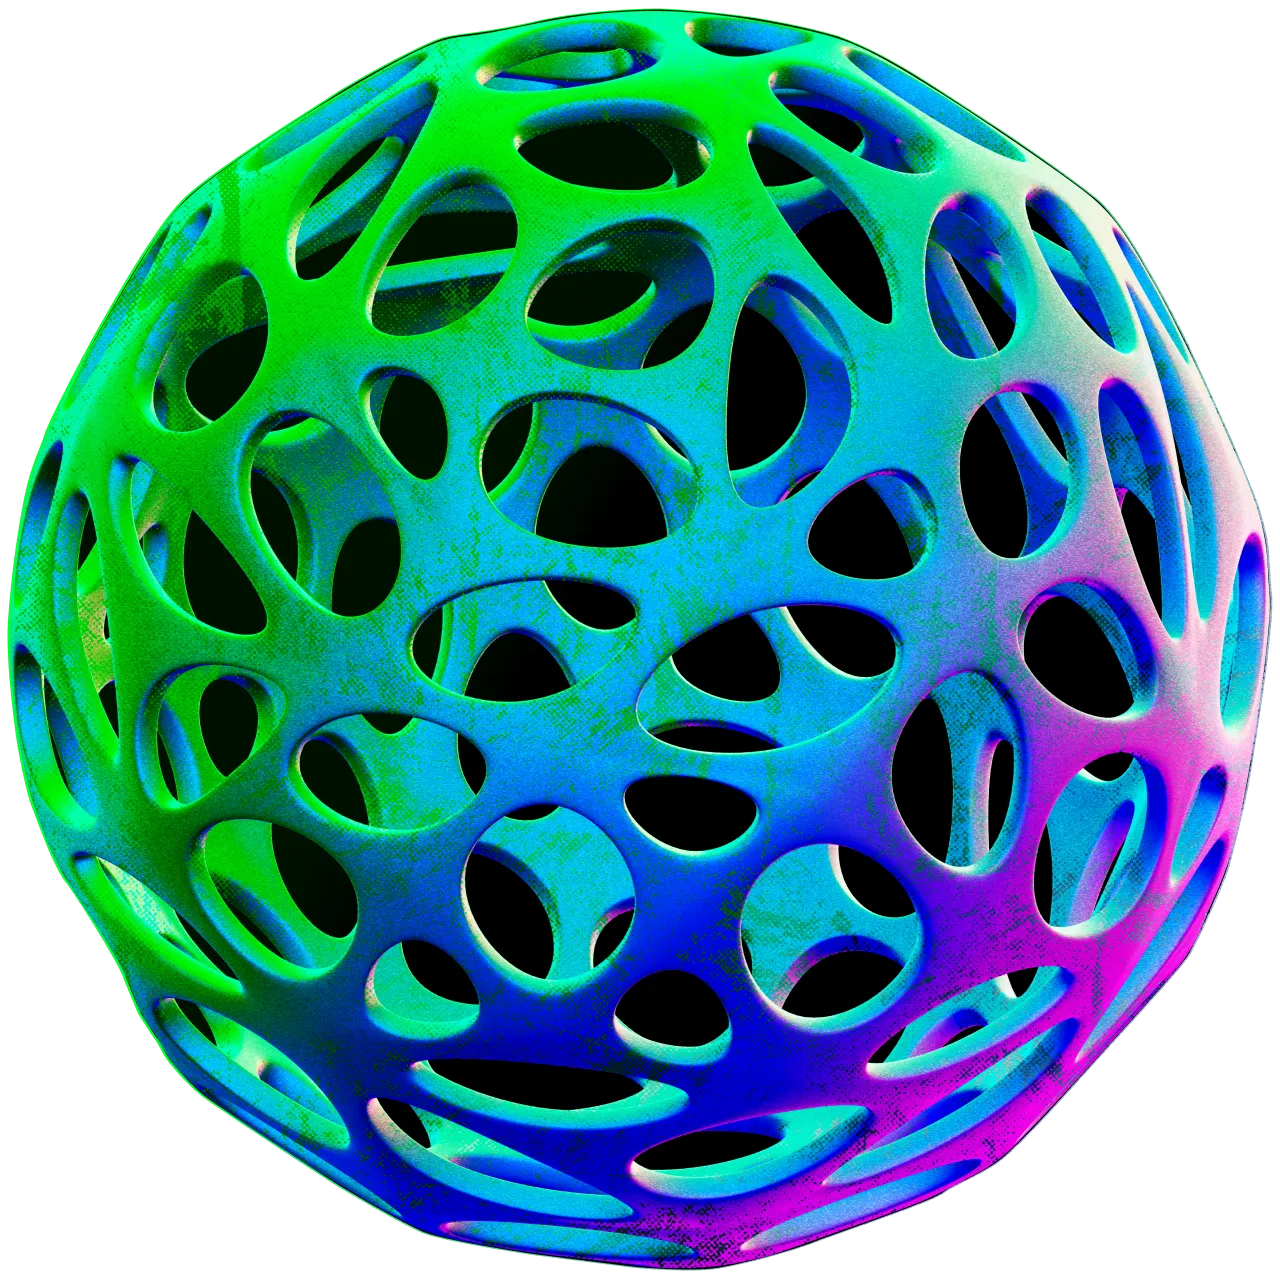
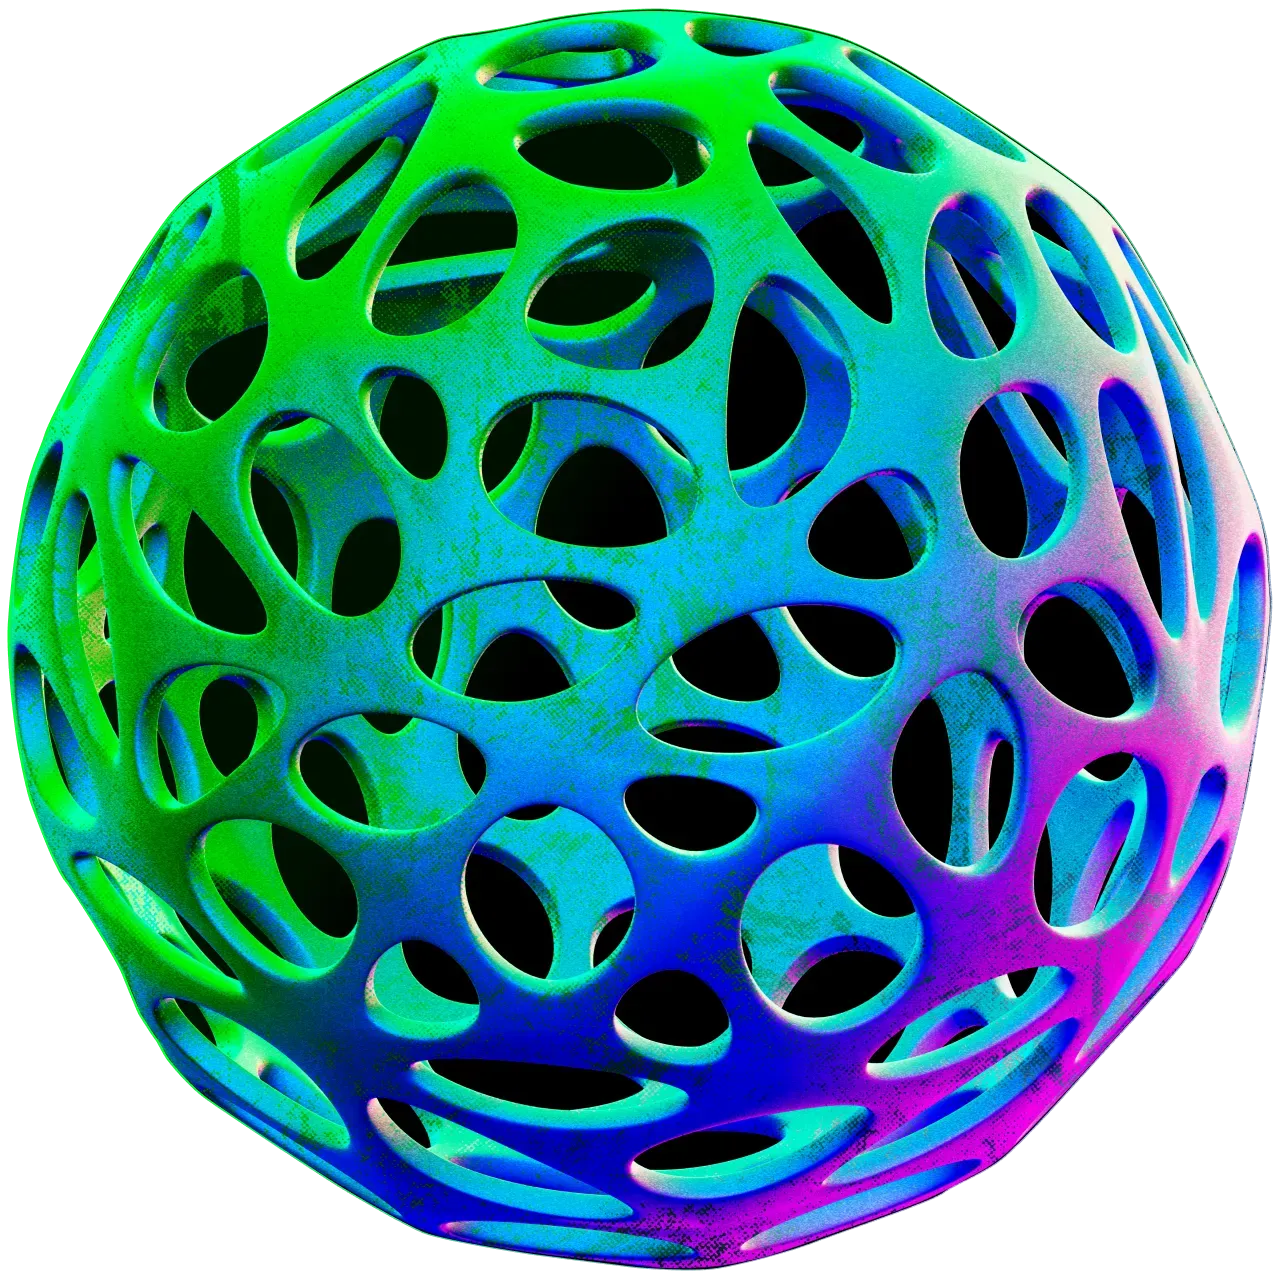
feat: optimize yt video and images as webp

Changed region(s): [[0.5312, 0.4688, 0.5625, 0.5], [0.4375, 0.5312, 0.4688, 0.5625], [0.3438, 0.4375, 0.375, 0.4688]]

diff --git a/index.html b/index.html
@@ -25,7 +25,7 @@
     @media screen and (min-width:1400px){.container{max-width:1200px}}
     @media screen and (min-width:1600px){.container{max-width:1400px}}
     header{width:100%;position:fixed;z-index:9999;transition:top .3s linear}
-    header.fixed{top:0;background:transparent}
+    header.fixed{top:0;background:transparent}.modal{display:none}.modal.show{display:block}
     .section{margin-bottom:4rem}
     .section__container{width:100%;margin-right:auto;margin-left:auto;display:flex;justify-content:space-between;align-items:center;flex-direction:column}
     .section__container--column{flex-direction:column}
@@ -69,6 +69,7 @@
   <link rel="stylesheet" href="https://unpkg.com/@fortawesome/fontawesome-free@5.15.4/css/all.min.css" media="print" onload="this.media='all'">
   <noscript><link rel="stylesheet" href="https://unpkg.com/@fortawesome/fontawesome-free@5.15.4/css/all.min.css"></noscript>
   <link rel="stylesheet" href="css/flipster.min.css" media="print" onload="this.media='all'">
+  <link rel="stylesheet" href="https://cdn.jsdelivr.net/npm/lite-youtube-embed@0.3.3/src/lite-yt-embed.css">
   <noscript><link rel="stylesheet" href="css/flipster.min.css"></noscript>
   <link rel="preload" href="fonts/Circular Std Book.ttf" as="font" type="font/ttf" crossorigin>
   <link rel="preload" href="fonts/Circular Std Medium.ttf" as="font" type="font/ttf" crossorigin>
@@ -154,7 +155,7 @@
                       </button>
                   </div>
                   <div class="modal__body">
-                    <iframe width="100%" height="315" src="https://www.youtube.com/embed/UqAequz4mgk" title="YouTube video player" frameborder="0" allow="accelerometer; autoplay; clipboard-write; encrypted-media; gyroscope; picture-in-picture; web-share" allowfullscreen></iframe>
+                    <lite-youtube videoid="UqAequz4mgk" playlabel="Play video: Network of Momentum overview" style="width:100%;height:315px;"></lite-youtube>
                   </div>
                   <div class="modal__footer"></div>
               </div>
@@ -517,12 +518,12 @@
                 </div>
               </div>
               <div class="join-content__right">
-                <img src="./img/network.png" alt="network" width="410" />
+                <img src="./img/network.webp" alt="network" width="410" />
               </div>
             </div>
             <div class="join-content">
               <div class="join-content__left">
-                <img src="./img/funding.png" alt="funding" width="550" />
+                <img src="./img/funding.webp" alt="funding" width="550" />
               </div>
               <div class="join-content__right join-content--full  join-content__right--reverse">
                 <h3 class="join-content__title">Get funding</h3>
@@ -727,7 +728,7 @@
                     </div>
                     <h3>Create your wallet</h3>
                     <p class="mb-0">Syrius is a state-of-the-art non-custodial wallet for the Network of Momentum. Store and manage your ZNN, QSR and ZTS tokens in a cross-platform, user-friendly and safe digital wallet</p>
-                    <img src="./img/wallet-bg.png" alt="wallet bg" />
+                    <img src="./img/wallet-bg.webp" alt="wallet bg" />
                   </div>
                   <a href="#downloads">Download Syrius wallet <i class="fas fa-arrow-right"></i></a>
                 </div>
@@ -791,7 +792,7 @@
                     </div>
                     <h3>Explore Code</h3>
                     <p class="mb-0">The vision, distilled. Explore the code powering the Network of Momentum. Every contribution matters</p>
-                    <img src="./img/code-bg.png" alt="code bg" />
+                    <img src="./img/code-bg.webp" alt="code bg" />
                   </div>
                   <a target="_blank" href="https://github.com/zenon-network">Discover Github <i class="fas fa-arrow-right"></i></a>
                 </div>
@@ -889,31 +890,31 @@
                 <div class="tab-flipster">
                   <ul>
                     <li data-flip-title="Syrius extension">
-                      <img src="./img/z.extension.png" alt="page 1" />
+                      <img src="./img/z.extension.webp" alt="page 1" />
                     </li>
                     <li data-flip-title="Syrius Mobile">
-                      <img src="./img/z.mobile_app.png"  alt="page 2" />
+                      <img src="./img/z.mobile_app.webp"  alt="page 2" />
                     </li>
                     <li data-flip-title="Bridge">
-                      <img src="./img/z.bridge.png"  alt="page 3" />
+                      <img src="./img/z.bridge.webp"  alt="page 3" />
                     </li>
                     <li data-flip-title="zenon.org">
-                      <img src="./img/z.org.png"  alt="page 4" />
+                      <img src="./img/z.org.webp"  alt="page 4" />
                     </li>
                     <li data-flip-title="zenon.tools">
-                      <img src="./img/z.tools.png"  alt="page 5" />
+                      <img src="./img/z.tools.webp"  alt="page 5" />
                     </li>
                     <li data-flip-title="Zenon Forum">
-                      <img src="./img/z.forum.png"  alt="page 6" />
+                      <img src="./img/z.forum.webp"  alt="page 6" />
                     </li>
                     <li data-flip-title="Zenon.info">
-                      <img src="./img/z.info.png"  alt="page 7" />
+                      <img src="./img/z.info.webp"  alt="page 7" />
                     </li>
                     <li data-flip-title="Zenonhub.io">
-                      <img src="./img/z.hub.png"  alt="page 8" />
+                      <img src="./img/z.hub.webp"  alt="page 8" />
                     </li>
                     <li data-flip-title="Zenon Playground">
-                      <img src="./img/z.playground.png"  alt="page 9" />
+                      <img src="./img/z.playground.webp"  alt="page 9" />
                     </li>
                   </ul>
                 </div>
@@ -1006,6 +1007,7 @@
     </div>
   </div>
 
+  <script type="module" src="https://cdn.jsdelivr.net/npm/lite-youtube-embed@0.3.3/src/lite-yt-embed.js"></script>
   <script defer src="https://unpkg.com/jquery@3.6.0/dist/jquery.min.js"></script>
   <script defer src="./js/main.js"></script>
   <script defer src="https://unpkg.com/@lottiefiles/lottie-player@1.7.1/dist/lottie-player.js"></script>

diff --git a/css/parts/_homepage.sass b/css/parts/_homepage.sass
@@ -25,7 +25,7 @@
   overflow: hidden
 
 // .wrapper
-//   background-image: url(../img/holo.png)
+//   background-image: url(../img/holo.webp)
 //   background-size: 90%
 //   background-position: center 12rem
 //   background-repeat: no-repeat
@@ -33,7 +33,7 @@
 //     background-position: top center
 
 #blue
-  background: url('../img/circle-right.png')
+  background: url('../img/circle-right.webp')
   background-size: contain
   background-repeat: no-repeat
   position: absolute
@@ -42,7 +42,7 @@
   right: 0
   top: 15rem
 #green
-  background: url('../img/circle-left.png')
+  background: url('../img/circle-left.webp')
   background-size: contain
   background-repeat: no-repeat
   position: absolute
@@ -365,7 +365,7 @@
 #bigTitle
   margin-top: 11rem
   margin-bottom: 5rem
-  // background-image: url('../img/header-bg.png')
+  // background-image: url('../img/header-bg.webp')
   background-image: url('../img/ball.webp')
   background-size: contain
   background-position: 30rem 0
@@ -396,7 +396,7 @@
     background-position: 90% 0
 
 #timeline
-  background-image: url('../img/star-background.png')
+  background-image: url('../img/star-background.webp')
   background-repeat: no-repeat
   background-position: center center
   background-size: cover
@@ -673,7 +673,7 @@
         transition: left 0.2s ease-in
 
     @media screen and (min-width: $medium-screen)
-      background-image: url('../img/swirl.png')
+      background-image: url('../img/swirl.webp')
       .liquidity-buttons
         flex-direction: row
     @media screen and (min-width: $xlarge-screen)
@@ -1110,7 +1110,7 @@
 
         .card-big__wrapper
           padding: 3rem 3rem 2.5rem 3rem
-          background-image: url('../img/znn-bg.png')
+          background-image: url('../img/znn-bg.webp')
           background-repeat: no-repeat
           background-position-y: bottom
           background-position-x: 3rem
@@ -1348,7 +1348,7 @@
         left: 50%
         right: 50%
         margin-left: -2rem
-        background-image: url('../img/play.png')
+        background-image: url('../img/play.webp')
         background-size: contain
         background-repeat: no-repeat
         background-position: center center
@@ -1497,7 +1497,7 @@
         line-height: 6.6rem
 
   &.zts
-    // background-image: url('../img/ellipse.png')
+    // background-image: url('../img/ellipse.webp')
     background-position: top center
     background-size: contain
     background-repeat: no-repeat
@@ -1584,7 +1584,7 @@
       padding: 3rem 3rem 2.5rem 3rem
       &.pillar
         max-width: 100%
-        background-image: url('../img/pillar-bg.png')
+        background-image: url('../img/pillar-bg.webp')
         background-repeat: no-repeat
         background-position-y: bottom
         background-position-x: 3rem
